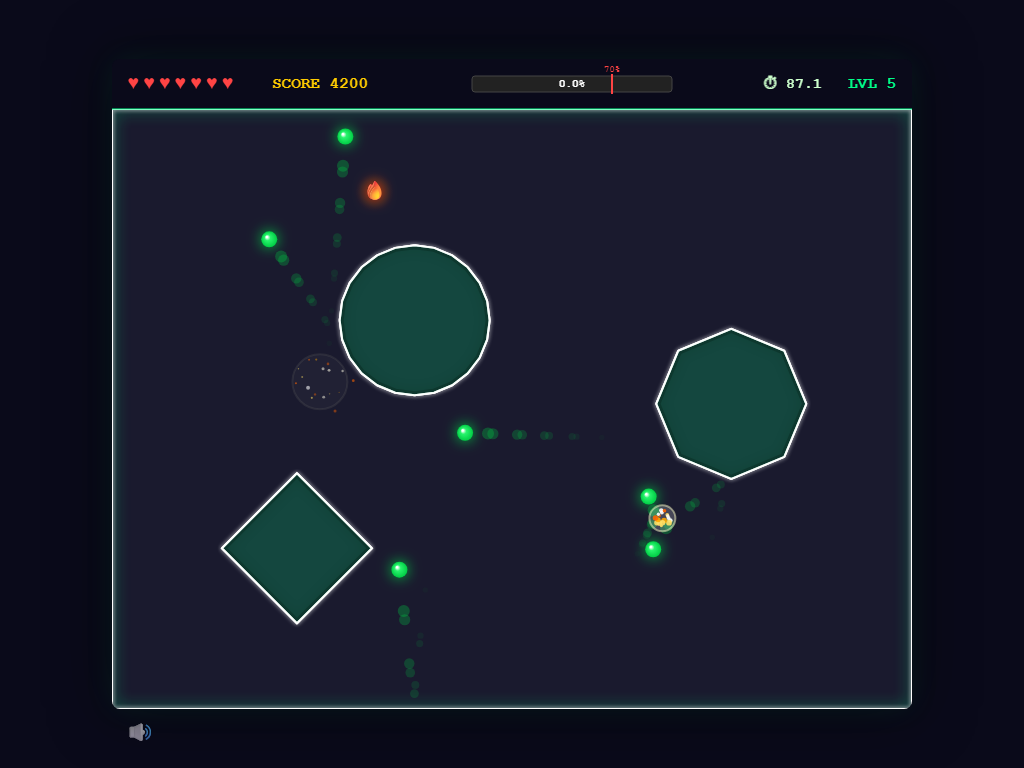
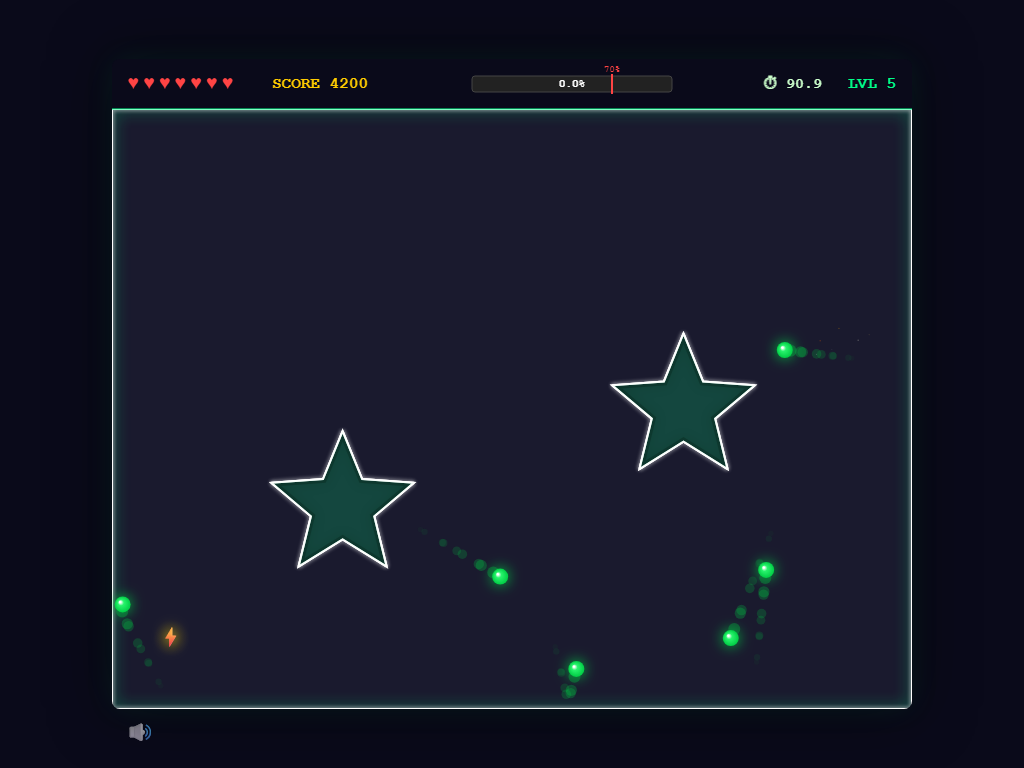
Add gameplay screenshots showing lines, power-ups, and shapes
New screenshots captured at levels 3, 8, and 12 showing:
- Lines growing across the play area with balls bouncing around
- Power-ups (fission, clock) with star/diamond/square obstacles
- Advanced gameplay with circle obstacles and many balls

diff --git a/docs/capture_screenshots.py b/docs/capture_screenshots.py
@@ -7,7 +7,33 @@ SCREENSHOTS_DIR.mkdir(exist_ok=True)
 
 URL = "http://localhost:8080"
 VIEWPORT = {"width": 1024, "height": 768}
-GAMEPLAY_LEVEL = 5  # Level 5 = 6 balls + obstacles
+
+
+def start_at_level(page, level, speed=1.5, score=4200):
+    """Start the game at a specific level via socket."""
+    page.evaluate("""(opts) => {
+        const s = io(window.location.origin, {
+            transports: ['polling', 'websocket']
+        });
+        s.on('connect', () => {
+            s.emit('start_game', {
+                speed_multiplier: opts.speed,
+                continue_level: opts.level,
+                continue_score: opts.score
+            });
+        });
+    }""", {"level": level, "speed": speed, "score": score})
+
+
+def click_to_draw_line(page, x, y):
+    """Click on the canvas to start drawing a line."""
+    page.mouse.click(x, y, button="left")
+
+
+def save(page, name):
+    path = str(SCREENSHOTS_DIR / f"{name}.png")
+    page.screenshot(path=path, full_page=False)
+    print(f"Saved: {path}")
 
 
 def main():
@@ -18,45 +44,49 @@ def main():
         # 1. Start screen
         page.goto(URL, wait_until="networkidle")
         page.wait_for_timeout(2000)
-        path = str(SCREENSHOTS_DIR / "start-screen.png")
-        page.screenshot(path=path, full_page=False)
-        print(f"Saved: {path}")
+        save(page, "start-screen")
 
-        # 2. How To Play (from start screen)
+        # 2. How To Play
         page.locator("#btn-help").click()
         page.wait_for_timeout(1000)
-        path = str(SCREENSHOTS_DIR / "how-to-play.png")
-        page.screenshot(path=path, full_page=False)
-        print(f"Saved: {path}")
+        save(page, "how-to-play")
 
-        # 3. Gameplay — jump to a higher level for an exciting screenshot.
-        #    First click the real Start button so the frontend hides the overlay.
-        #    Then immediately restart at a higher level via a second socket.
-        #    The backend broadcasts to ALL clients, so the frontend renders it.
+        # 3. Gameplay — level 5 with obstacles and multiple balls
         page.locator("#btn-help-back").click()
         page.wait_for_timeout(500)
         page.locator("#btn-start").click()
         page.wait_for_timeout(1000)
-
-        # Restart at a higher level via a second socket connection
-        page.evaluate("""() => {
-            const s = io(window.location.origin, {
-                transports: ['websocket', 'polling']
-            });
-            s.on('connect', () => {
-                s.emit('start_game', {
-                    speed_multiplier: 1.5,
-                    continue_level: """ + str(GAMEPLAY_LEVEL) + """,
-                    continue_score: 4200
-                });
-            });
-        }""")
-
-        # Let the game run so balls spread out and power-ups appear
+        start_at_level(page, level=5, speed=1.5, score=4200)
         page.wait_for_timeout(6000)
-        path = str(SCREENSHOTS_DIR / "gameplay.png")
-        page.screenshot(path=path, full_page=False)
-        print(f"Saved: {path}")
+        save(page, "gameplay")
+
+        # 4. Lines being drawn — start at level 3, draw a couple of lines
+        start_at_level(page, level=3, speed=1.0, score=1500)
+        page.wait_for_timeout(3000)
+        # Draw a horizontal line near the center
+        click_to_draw_line(page, 450, 350)
+        page.wait_for_timeout(400)
+        # Draw another line while the first is still growing
+        click_to_draw_line(page, 300, 250)
+        page.wait_for_timeout(300)
+        save(page, "lines-growing")
+
+        # 5. Power-ups and shapes — level 8 has more power-ups and obstacles
+        start_at_level(page, level=8, speed=1.0, score=8000)
+        page.wait_for_timeout(8000)
+        # Draw a line to show active gameplay with power-ups visible
+        click_to_draw_line(page, 500, 300)
+        page.wait_for_timeout(500)
+        save(page, "powerups-and-shapes")
+
+        # 6. Advanced gameplay — level 12 with many balls and effects
+        start_at_level(page, level=12, speed=1.5, score=15000)
+        page.wait_for_timeout(8000)
+        click_to_draw_line(page, 400, 400)
+        page.wait_for_timeout(400)
+        click_to_draw_line(page, 600, 200)
+        page.wait_for_timeout(300)
+        save(page, "advanced-gameplay")
 
         browser.close()
         print("Done!")

diff --git a/README.md b/README.md
@@ -28,6 +28,24 @@ This project was created entirely using [GitHub Copilot CLI](https://docs.github
 
 ![Gameplay](docs/screenshots/gameplay.png)
 
+### Drawing Lines & Dodging Balls
+
+Click to draw boundary lines that grow toward the nearest wall. Complete lines to claim territory — but don't let a ball hit your growing line!
+
+![Lines Growing](docs/screenshots/lines-growing.png)
+
+### Power-ups, Obstacles & Shapes
+
+Higher levels feature obstacle shapes (star, diamond, square, circle, octagon) and power-ups scattered across the arena. Enclose them with your lines to capture their effects.
+
+![Power-ups and Shapes](docs/screenshots/powerups-and-shapes.png)
+
+### Advanced Levels
+
+As you progress, more balls spawn, speeds increase, and multiple obstacles crowd the arena. Strategy matters — plan your lines carefully!
+
+![Advanced Gameplay](docs/screenshots/advanced-gameplay.png)
+
 ---
 
 ## ✨ Features
